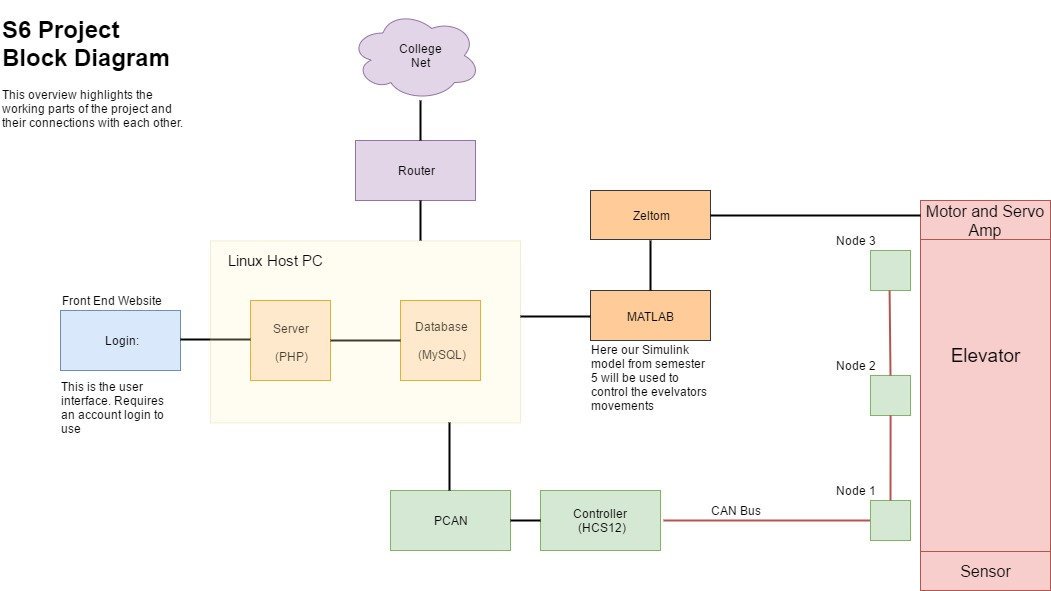
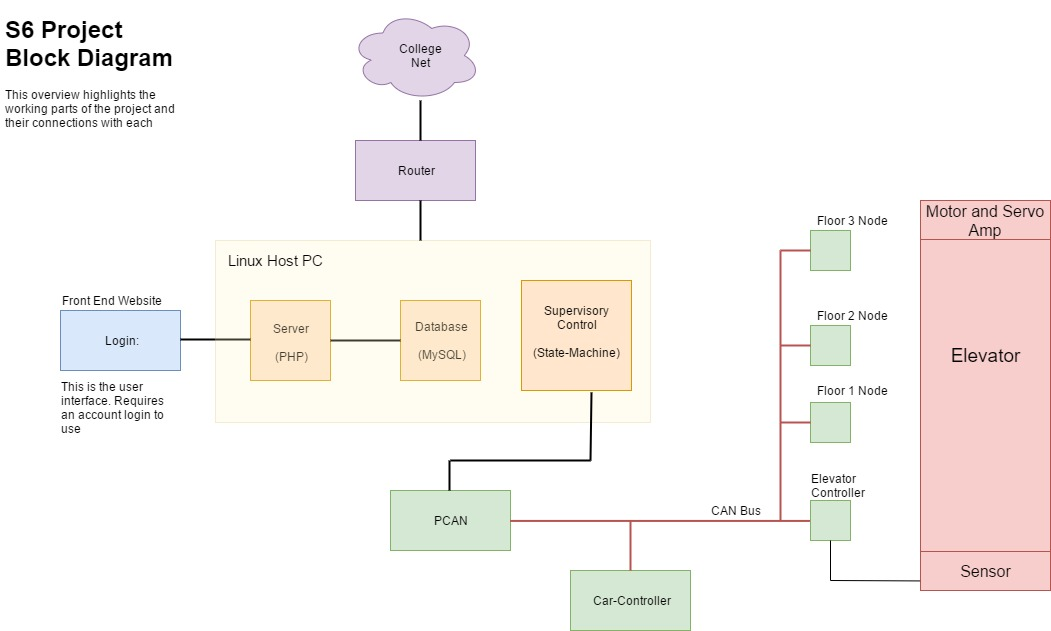
Updated Log Book, Updated BlockDiagram

diff --git a/james-logbook.html b/james-logbook.html
@@ -13,6 +13,8 @@
 			<img src="images/james.jpg" alt="Image of James" title="James Selfie" width=200px/>
 			<figcaption><b>James Sonnenberg:</b> Third year electronics engineering student at Conestoga College </figcaption>
 
+<hr />
+
 		<h2>Week One</h2>
 		<ul>
 			<li>Created schedule in Microsoft Project</li>
@@ -20,6 +22,8 @@
 			<li>Created project block diagram</li>
 			<li>Review project charter</li>
 		</ul>
+
+<hr />
 
 		<h2>Week Two</h2>
 		<ul>
@@ -40,6 +44,8 @@
 			<li>Started writing initial code for CAN communincation from the HCS12</li>
 			<li>Distributed project work for Monday's debrief</li>
 		</ul>
+
+<hr />
 
 		<h2>Week 3</h2>
 		<ul>
@@ -69,9 +75,48 @@
 			</ul>
 		</ul>
 
+<hr />
+
 		<h2>Week 4</h2>
 		<ul>
-			<li>WORK IN PROGESS</li>
+			<li><b>Created Car-Controller Node</b> responsible for:</li>
+			<ul>
+					<li>Requests floors from inside the elevator</li>
+					<li>Displays current floor on 3 LEDs (Green = 1, Yellow = 2, Red = 3)</li>
+					<li>Displays door state (Green = Open, Red = Closed)</li>
+					<li>LEDs to display which floors have been queued</li>
+					<li>Changed protocol so that the Car-Controller listens to the supervisor to know which floor is the destination</li>
+					<li>Listens to the elevator controller to know the position of the car</li>
+			</ul>
+			<li><b>Incoming Messages from Elevator Controller</b></li>
+			<ul>
+					<li>Car Moving = 0x00</li>
+					<li>Car at Floor 1 = 0x01</li>
+					<li>Car at Floor 2 = 0x02</li>
+					<li>Car at Floor 3 = 0x03</li>
+			</ul>
+			<li><b>Incoming Messages from Supervisory Controller</b></li>
+			<ul>
+					<li>No Destination Floor = 0x00</li>
+					<li>Destination Floor is 1 = 0x01</li>
+					<li>Destination Floor is 2 = 0x02</li>
+					<li>Destination Floor is 3 = 0x03</li>
+			</ul>
+			<li><b>Messages to send to the Supervisory Controller</b></li>
+			<ul>
+					<li>Door Closed, No Floor requested = 0x04</li>
+					<li>Door Open, No Floor requested = 0x00</li>
+					<li>Door Closed, Floor 1 requested = 0x05</li>
+					<li>Door Open, Floor 1 requested = 0x01</li>
+					<li>Door Closed, Floor 2 requested = 0x06</li>
+					<li>Door Open, Floor 2 requested = 0x02</li>
+					<li>Door Closed, Floor 3 requested = 0x07</li>
+					<li>Door Open, Floor 3 requested = 0x03</li>
+			</ul>
+			<li><b>Possible features to implement</b></li>
+			<ul>
+					<li>Have the elvator door close automatically after some delay period of inactivity</li>
+			</ul>
 		</ul>
 
 		<h3>Navigation</h3>

diff --git a/project-plan.html b/project-plan.html
@@ -2,7 +2,9 @@
 <html lang="en">
 	<head>
 		<title>Project VI - Project Plan</title>
+		<link href="css/may31.css" type="text/css" rel="stylesheet" />
 	</head>
+
 	<body>
 		<h1>Project VI - Project Plan</h1>
 		<h2>Weekly Project Plan</h2>

diff --git a/css/may31.css b/css/may31.css
@@ -1,0 +1,2 @@
+h1{text-align: center;}
+table{empty-cells: show;}
